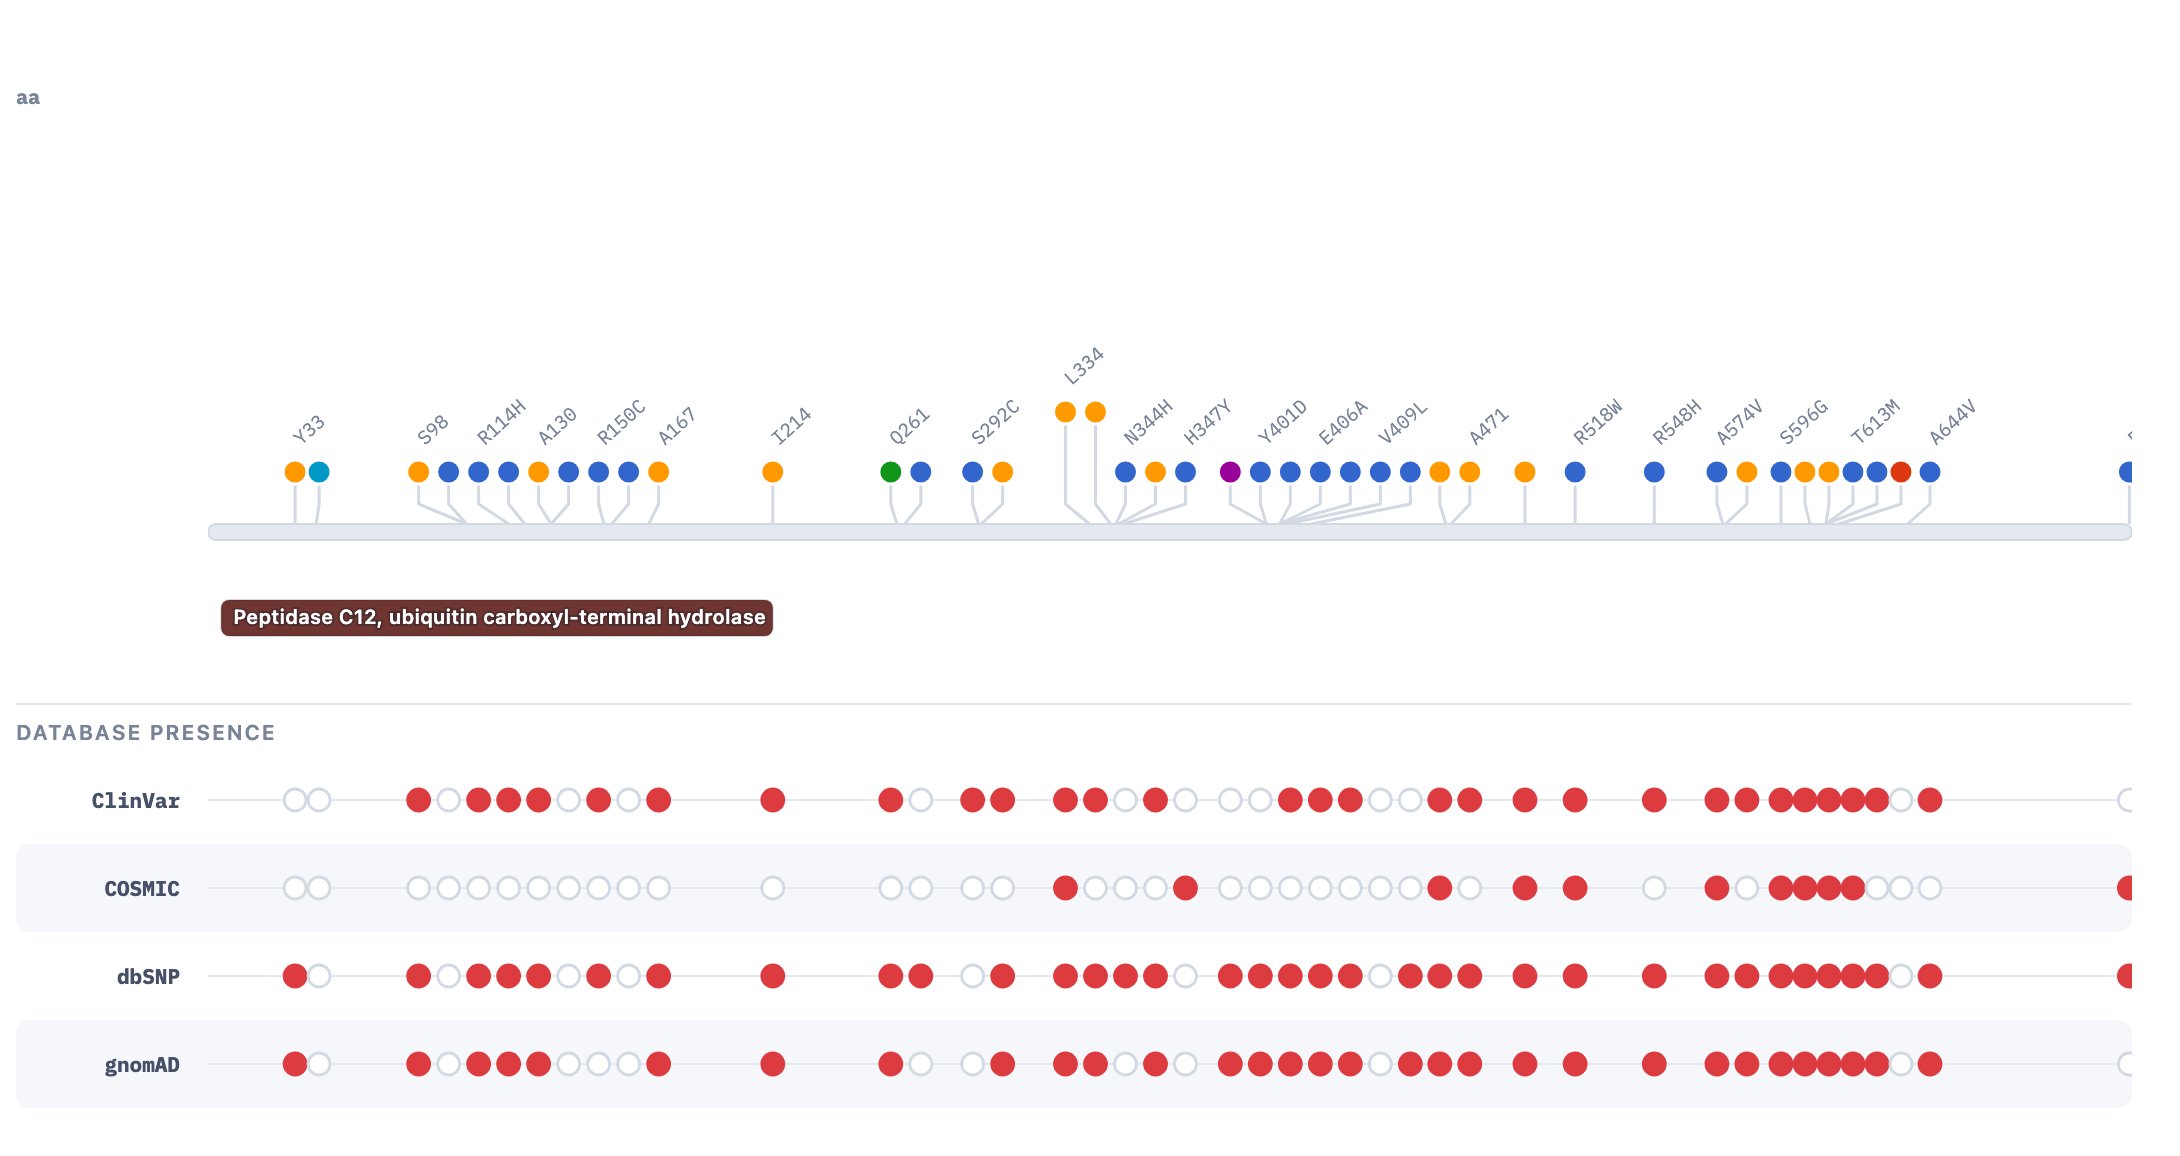
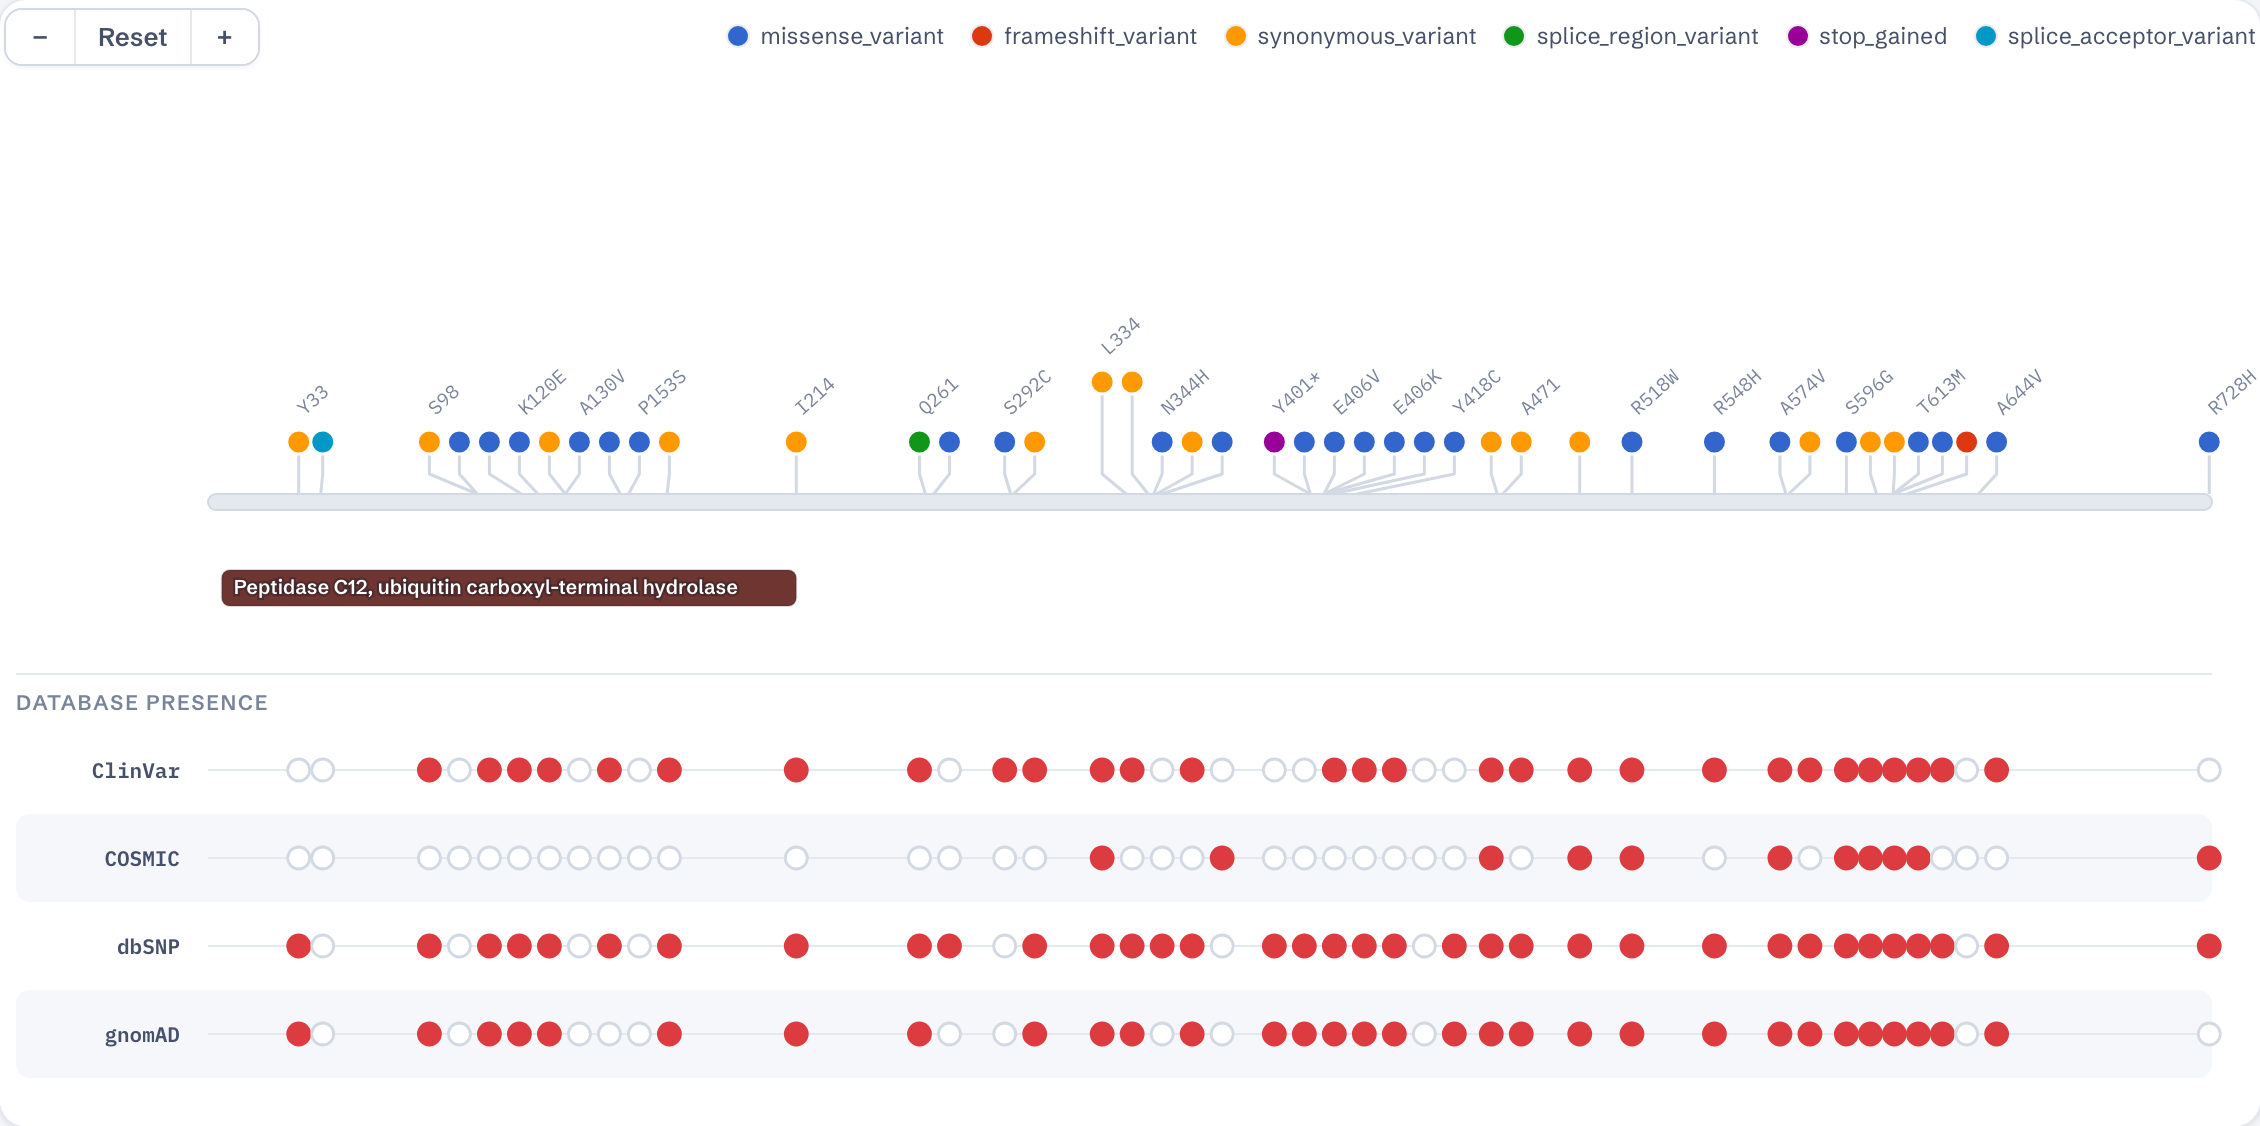
Refresh app screenshots and clarify authorship in the README
- Recapture screenshot.png, bap1.png and og-image.png from the current
  build so they reflect the redesigned UI and the latest plot fixes
  (rounded edge markers, tighter lollipop band, no stray axis caption).
- Reword the authorship note to credit the web application — interface,
  visualization and architecture — to its developer, while the 2019
  publication stays credited to the full lab team.

diff --git a/README.md b/README.md
@@ -16,7 +16,7 @@ A **Vue 3** web application for the clinical interpretation of genetic variants 
 
 ## Published research
 
-VCF/Plotein is a peer-reviewed clinical genomics tool I helped build at the **Cancer Genetics & Bioinformatics Lab, LIIGH-UNAM** (Laboratorio Internacional de Investigación sobre el Genoma Humano, Universidad Nacional Autónoma de México), Querétaro, Mexico. It was published in *Bioinformatics* (Oxford University Press) in 2019 as part of a collaborative lab project.
+VCF/Plotein is a peer-reviewed clinical genomics tool I developed at the **Cancer Genetics & Bioinformatics Lab, LIIGH-UNAM** (Laboratorio Internacional de Investigación sobre el Genoma Humano, Universidad Nacional Autónoma de México), Querétaro, Mexico. The accompanying research was published in *Bioinformatics* (Oxford University Press) in 2019.
 
 > Ossio, R., Garcia-Salinas, O.I., **Anaya-Mancilla, D.S.**, Garcia-Sotelo, J.S., Aguilar, L.A., Adams, D.J., Robles-Espinoza, C.D. (2019). **VCF/Plotein: visualization and prioritization of genomic variants from human exome sequencing projects.** *Bioinformatics*, 35(22), 4803–4805. Oxford University Press. DOI: [10.1093/bioinformatics/btz458](https://doi.org/10.1093/bioinformatics/btz458)
 
@@ -117,9 +117,11 @@ The BAP1 demo dataset rendered as an interactive D3.js lollipop plot — variant
 
 Precision medicine depends on turning raw sequencing data into interpretable insights. By visualizing how exome variants map to protein structure and combining them with clinical and pathogenicity databases, this tool reduces the manual burden on molecular biologists and supports faster, more informed clinical decisions.
 
-## Author & contributions
+## Author
 
-VCF/Plotein was a collaborative project of the **Cancer Genetics & Bioinformatics Lab at LIIGH-UNAM**. **Diego Said Anaya-Mancilla** contributed as one of the developers of the tool, working on the web application within the lab team. The original project was a team effort that resulted in the 2019 *Bioinformatics* publication; credit for the tool belongs to the lab and its contributors collectively, not to any single author. The 2026 modernization to a Vue 3 / Vite stack (this `modernized` branch) is later, independent work on the codebase.
+The VCF/Plotein web application — its interface, data visualization and architecture — was designed and written by **[Diego Said Anaya-Mancilla](https://github.com/redcpp)**. The original 2018–2019 implementation and the 2026 ground-up rewrite to a modern Vue 3 / Vite stack (documented above) are both his work.
+
+The application was developed at the **Cancer Genetics & Bioinformatics Lab, LIIGH-UNAM** (Querétaro, Mexico), where the surrounding research was carried out and published in *Bioinformatics* (2019) — see [Published research](#published-research). That publication is credited to the full lab team.
 
 ## License
 